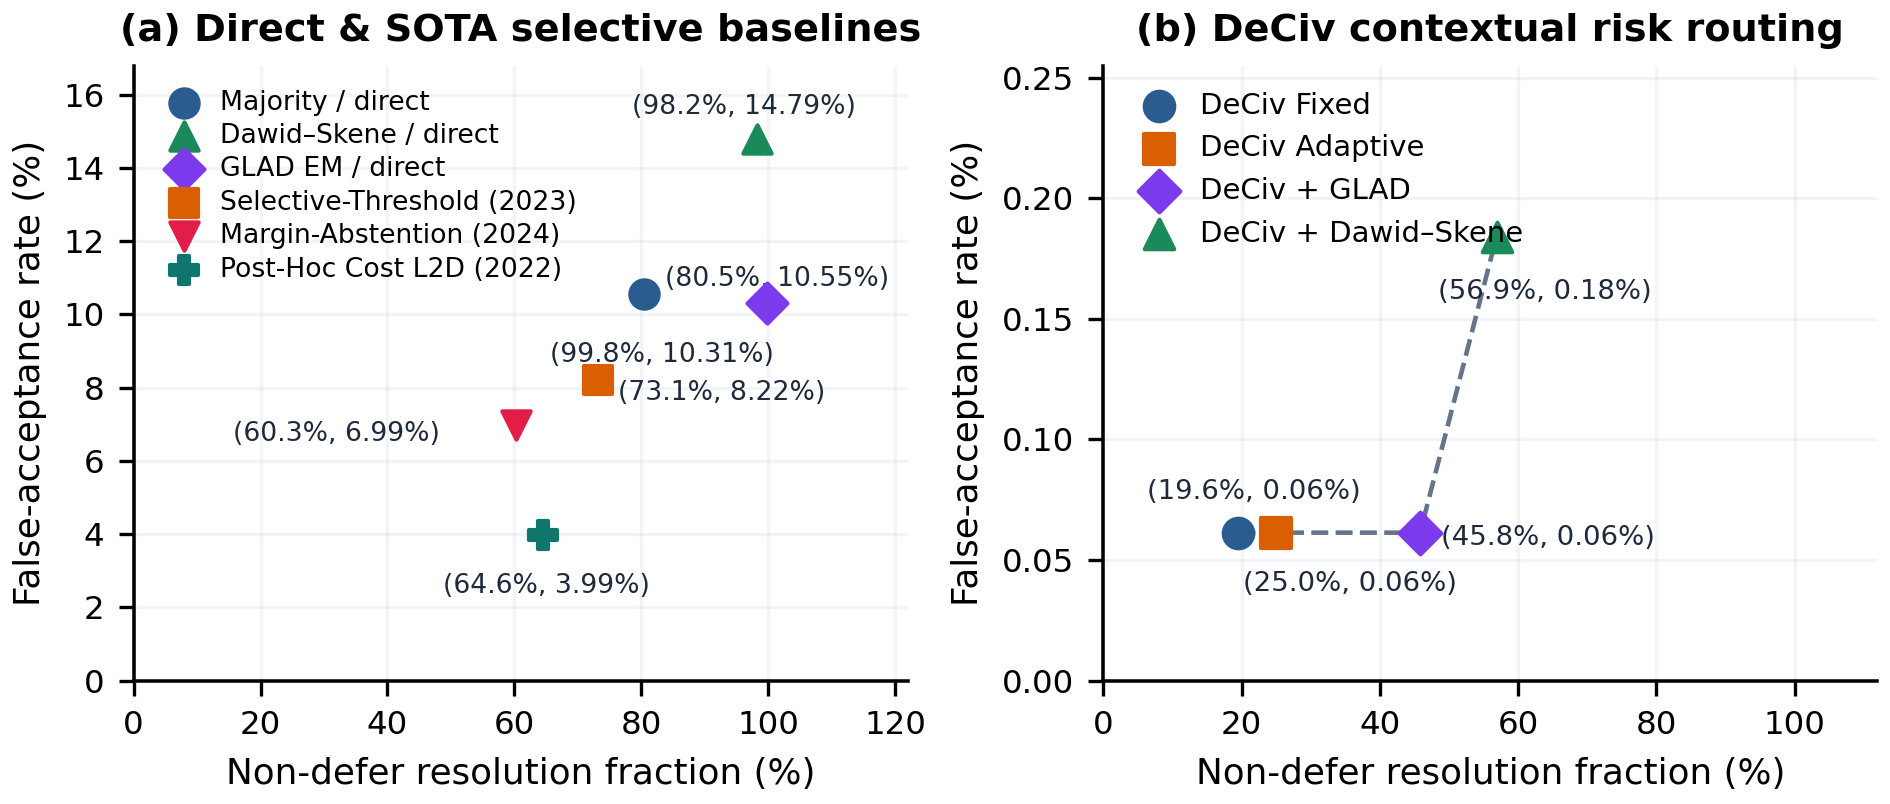
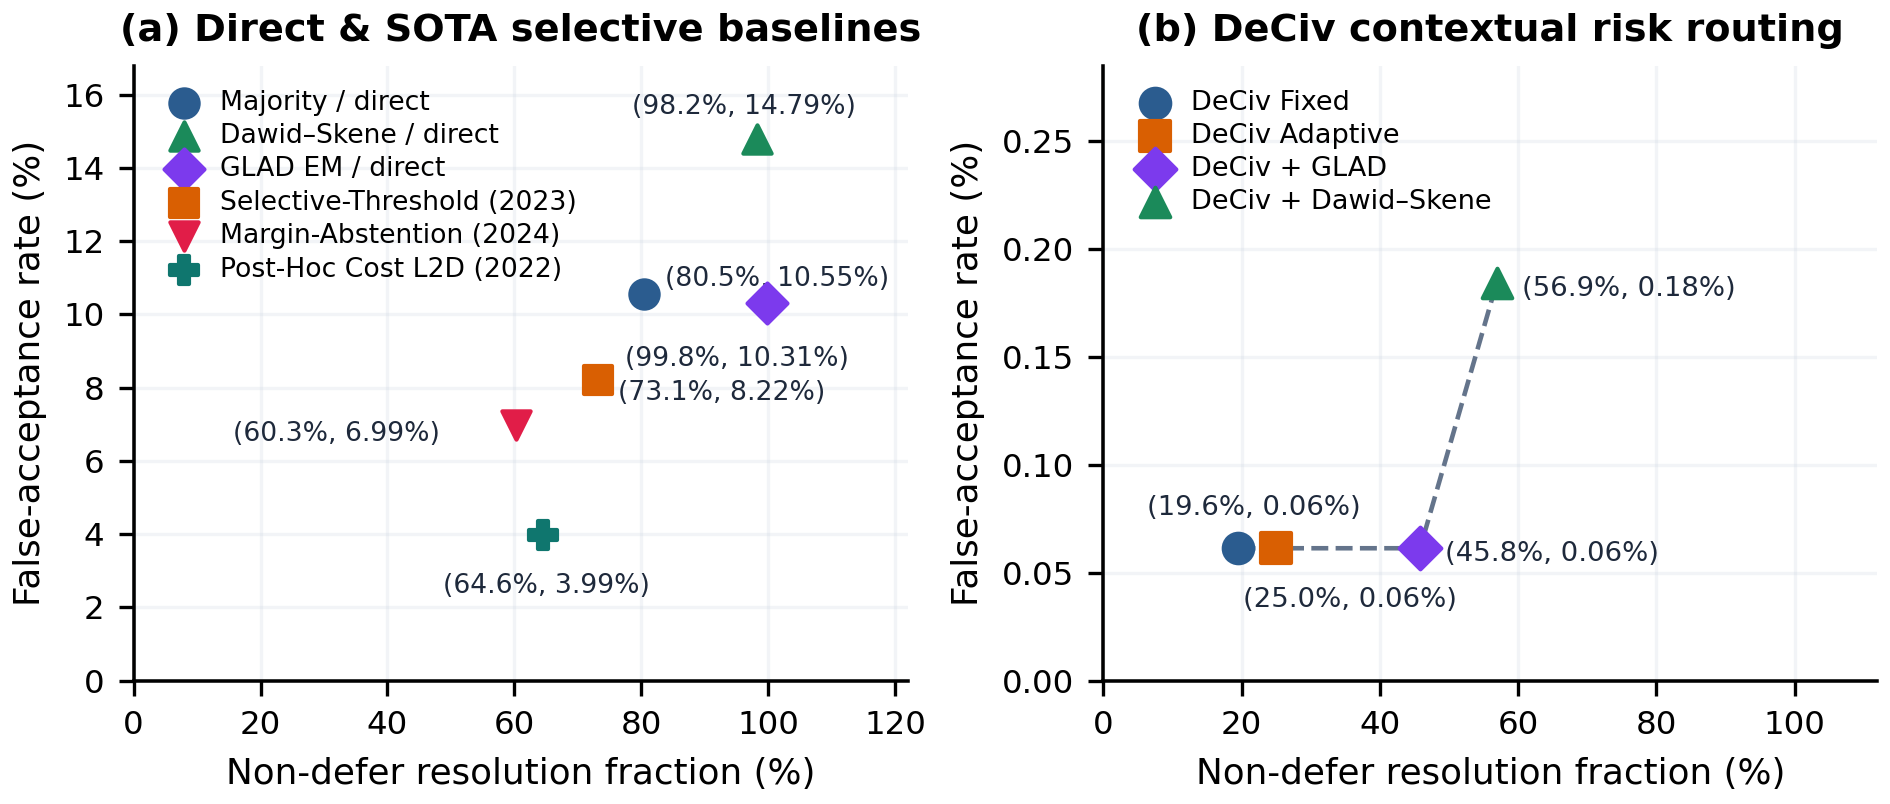
Sync plot_figures.py and zero-overlap label placement for Figure 2

diff --git a/scripts/plot_figures.py b/scripts/plot_figures.py
@@ -20,12 +20,14 @@ def main():
     FIGS.mkdir(parents=True, exist_ok=True)
     plt.rcParams.update({
         "font.family": "DejaVu Sans",
-        "font.size": 9,
-        "axes.labelsize": 9,
-        "axes.titlesize": 9.5,
-        "xtick.labelsize": 8,
-        "ytick.labelsize": 8,
-        "legend.fontsize": 7.5,
+        "font.size": 8.6,
+        "axes.labelsize": 8.6,
+        "axes.titlesize": 9.2,
+        "axes.titleweight": "bold",
+        "xtick.labelsize": 7.8,
+        "ytick.labelsize": 7.8,
+        "legend.fontsize": 7.3,
+        "axes.linewidth": 0.85,
         "pdf.fonttype": 42,
         "ps.fonttype": 42,
         "axes.spines.top": False,
@@ -33,78 +35,87 @@ def main():
     })
     colors = ["#2b5c8f", "#d95f02", "#1b8a5a"]
 
-    # Figure 2: Admission tradeoff
+    # Figure 2: Selectivity-throughput frontier (6.30 x 2.68 in)
     data = rows("main_metrics.csv")
     metrics = {(r["method"], r["router"]): r for r in data}
-    fig, axes = plt.subplots(1, 2, figsize=(7.2, 3.0), layout="constrained")
-    for ax, router in zip(axes, ["direct", "risk"]):
-        labels = (
-            [("majority", "Majority / fixed"), ("reliability_weighted", "Reliability / adaptive"), ("dawid_skene", "Dawid\u2013Skene")]
-            if router == "direct"
-            else [("fixed", "Fixed / majority / reliability"), ("adaptive", "DeCiv Adaptive"), ("dawid_skene", "DeCiv + Dawid\u2013Skene")]
-        )
-        offsets = [(-36, -15), (-82, -3), (-64, 6)] if router == "direct" else [(-36, 8), (6, -13), (-34, -15)]
-        for j, (mode, label) in enumerate(labels):
-            r = metrics[(mode, router)]
-            x = 100 * float(r["non_defer_fraction"])
-            y = 100 * float(r["far"])
-            ax.scatter(x, y, s=56, color=colors[j], marker=["o", "s", "^"][j], label=label, zorder=3)
-            ax.annotate(f"({x:.1f}%, {y:.2f}%)", xy=(x, y), xytext=offsets[j], textcoords="offset points", fontsize=7.2, color="#1f2937")
-        ax.set(
-            xlabel="Non-defer resolution fraction (%)",
-            ylabel="False-acceptance rate (%)",
-            title="(a) Direct semantic mapping" if router == "direct" else "(b) Contextual risk routing",
-            xlim=(0, 108),
-            ylim=(0, 16.8 if router == "direct" else 0.23),
-        )
-        ax.grid(alpha=0.22)
-        ax.legend(loc="lower left" if router == "direct" else "upper left", frameon=False, fontsize=7.2)
+    sota = {r["baseline_id"]: r for r in rows("sota_baselines.csv")}
+    fig, axes = plt.subplots(1, 2, figsize=(6.30, 2.68), layout="constrained")
+    ax_a = axes[0]
+    pts_a = [
+        (100 * float(metrics[("majority", "direct")]["non_defer_fraction"]), 100 * float(metrics[("majority", "direct")]["far"]), "Majority / direct", "#2b5c8f", "o", (5, 2)),
+        (100 * float(metrics[("dawid_skene", "direct")]["non_defer_fraction"]), 100 * float(metrics[("dawid_skene", "direct")]["far"]), "Dawid\u2013Skene / direct", "#1b8a5a", "^", (-30, 6)),
+        (100 * float(sota["glad_direct"]["non_defer_fraction"]), 100 * float(sota["glad_direct"]["far"]), "GLAD EM / direct", "#7c3aed", "D", (-34, -15)),
+        (100 * float(sota["selective_threshold"]["non_defer_fraction"]), 100 * float(sota["selective_threshold"]["far"]), "Selective-Threshold (2023)", "#d95f02", "s", (5, -5)),
+        (100 * float(sota["margin_rejector"]["non_defer_fraction"]), 100 * float(sota["margin_rejector"]["far"]), "Margin-Abstention (2024)", "#e11d48", "v", (-68, -4)),
+        (100 * float(sota["posthoc_l2d"]["non_defer_fraction"]), 100 * float(sota["posthoc_l2d"]["far"]), "Post-Hoc Cost L2D (2022)", "#0f766e", "P", (-24, -14)),
+    ]
+    for x, y, lbl, col, mk, off in pts_a:
+        ax_a.scatter(x, y, s=46, color=col, marker=mk, label=lbl, zorder=3)
+        ax_a.annotate(f"({x:.1f}%, {y:.2f}%)", xy=(x, y), xytext=off, textcoords="offset points", fontsize=6.4, color="#1e293b")
+    ax_a.set(xlabel="Non-defer resolution fraction (%)", ylabel="False-acceptance rate (%)", title="(a) Direct & SOTA selective baselines", xlim=(0, 122), ylim=(0, 16.8))
+    ax_a.grid(alpha=0.24, color="#cbd5e1")
+    ax_a.legend(loc="upper left", frameon=False, fontsize=6.4, handletextpad=0.35, labelspacing=0.28)
+
+    ax_b = axes[1]
+    pts_b = [
+        (100 * float(metrics[("fixed", "risk")]["non_defer_fraction"]), 100 * float(metrics[("fixed", "risk")]["far"]), "DeCiv Fixed", "#2b5c8f", "o", (-22, 8)),
+        (100 * float(metrics[("adaptive", "risk")]["non_defer_fraction"]), 100 * float(metrics[("adaptive", "risk")]["far"]), "DeCiv Adaptive", "#d95f02", "s", (-8, -14)),
+        (100 * float(sota["deciv_glad_risk"]["non_defer_fraction"]), 100 * float(sota["deciv_glad_risk"]["far"]), "DeCiv + GLAD", "#7c3aed", "D", (6, -3)),
+        (100 * float(metrics[("dawid_skene", "risk")]["non_defer_fraction"]), 100 * float(metrics[("dawid_skene", "risk")]["far"]), "DeCiv + Dawid\u2013Skene", "#1b8a5a", "^", (6, -3)),
+    ]
+    ax_b.plot([p[0] for p in pts_b], [p[1] for p in pts_b], color="#64748b", linestyle="--", linewidth=1.1, zorder=2)
+    for x, y, lbl, col, mk, off in pts_b:
+        ax_b.scatter(x, y, s=50, color=col, marker=mk, label=lbl, zorder=3)
+        ax_b.annotate(f"({x:.1f}%, {y:.2f}%)", xy=(x, y), xytext=off, textcoords="offset points", fontsize=6.6, color="#1e293b")
+    ax_b.set(xlabel="Non-defer resolution fraction (%)", ylabel="False-acceptance rate (%)", title="(b) DeCiv contextual risk routing", xlim=(0, 112), ylim=(0, 0.285))
+    ax_b.grid(alpha=0.24, color="#cbd5e1")
+    ax_b.legend(loc="upper left", frameon=False, fontsize=6.5, handletextpad=0.35, labelspacing=0.26)
     fig.savefig(FIGS / "admission_tradeoff.pdf")
-    fig.savefig(FIGS / "admission_tradeoff.png", dpi=240)
+    fig.savefig(FIGS / "admission_tradeoff.png", dpi=300)
     plt.close(fig)
 
-    # Figure 3: Routing confusions
+    # Figure 3: Compact 2x2 four-action confusion matrices (6.30 x 3.32 in)
     data = rows("action_confusion.csv")
     actions = ["accept", "reject", "revise", "defer"]
-    ylabels = ["accept\n(n=170)", "reject\n(n=790)", "revise\n(n=450)", "defer\n(n=390)"]
-    fig, axes = plt.subplots(2, 2, figsize=(7.2, 5.4), layout="constrained")
-    configs = [
+    ylabels = ["accept (170)", "reject (790)", "revise (450)", "defer (390)"]
+    fig, axes = plt.subplots(2, 2, figsize=(6.30, 3.32), layout="constrained")
+    cfgs = [
         ("majority", "direct", "(a) Majority / direct"),
         ("fixed", "risk", "(b) DeCiv Fixed / risk"),
         ("adaptive", "risk", "(c) DeCiv Adaptive / risk"),
         ("dawid_skene", "risk", "(d) DeCiv + Dawid\u2013Skene / risk"),
     ]
-    for ax, (mode, router, title) in zip(axes.flat, configs):
+    for idx_ax, (ax, (mode, router, title)) in enumerate(zip(axes.flat, cfgs)):
         matrix = np.zeros((4, 4), dtype=int)
         for r in data:
             if r["method"] == mode and r["router"] == router:
                 matrix[actions.index(r["reference_action"]), actions.index(r["predicted_action"])] = int(r["count"])
         percentages = 100 * matrix / matrix.sum(axis=1, keepdims=True)
         ax.imshow(percentages, vmin=0, vmax=100, cmap="Blues", aspect="auto")
+        ax.set_xticks(np.arange(-0.5, 4, 1), minor=True)
+        ax.set_yticks(np.arange(-0.5, 4, 1), minor=True)
+        ax.grid(which="minor", color="white", linestyle="-", linewidth=1.3)
+        ax.tick_params(which="minor", bottom=False, left=False)
         for i in range(4):
             for j in range(4):
-                ax.text(
-                    j,
-                    i,
-                    f"{matrix[i,j]}\n({percentages[i,j]:.1f}%)",
-                    ha="center",
-                    va="center",
-                    fontsize=7.2,
-                    color="white" if percentages[i, j] > 55 else "#111827",
-                )
-        ax.set_xticks(range(4), actions)
-        ax.set_yticks(range(4), ylabels)
-        ax.set(xlabel="Recommended disposition", ylabel="Policy reference", title=title)
+                ax.text(j, i, f"{matrix[i,j]}\n({percentages[i,j]:.1f}%)", ha="center", va="center", fontsize=6.9, color="white" if percentages[i, j] > 55 else "#0f172a")
+        ax.set_xticks(range(4), actions if idx_ax >= 2 else [""] * 4)
+        ax.set_yticks(range(4), ylabels if idx_ax % 2 == 0 else [""] * 4)
+        ax.set_title(title, pad=4)
+        if idx_ax >= 2:
+            ax.set_xlabel("Recommended disposition")
+        if idx_ax % 2 == 0:
+            ax.set_ylabel("Policy reference")
         ax.tick_params(length=0)
     fig.savefig(FIGS / "routing_confusions.pdf")
-    fig.savefig(FIGS / "routing_confusions.png", dpi=240)
+    fig.savefig(FIGS / "routing_confusions.png", dpi=300)
     plt.close(fig)
 
-    # Figure 4: Cost sensitivity
+    # Figure 4: Deferral cost sensitivity (6.30 x 2.65 in)
     data = rows("cost_sensitivity.csv")
-    fig, axes = plt.subplots(1, 2, figsize=(7.2, 3.0), layout="constrained")
+    fig, axes = plt.subplots(1, 2, figsize=(6.30, 2.65), layout="constrained")
     for ax in axes:
-        ax.axvline(0.5, color="#6b7280", linestyle=":", linewidth=1.1, zorder=1)
+        ax.axvline(0.5, color="#64748b", linestyle=":", linewidth=1.1, zorder=1)
     for j, mode in enumerate(["fixed", "adaptive", "dawid_skene"]):
         rs = sorted([r for r in data if r["method"] == mode], key=lambda r: float(r["defer_cost"]))
         for ax, k in zip(axes, ["non_defer_fraction", "far"]):
@@ -116,33 +127,33 @@ def main():
                 marker=["o", "s", "^"][j],
                 linestyle=["-", "--", "-."][j],
                 linewidth=1.7,
-                markersize=4.8,
+                markersize=4.6,
                 zorder=3,
             )
             ax.set(
                 xlabel="Deferral cost parameter d",
                 ylabel="Non-defer fraction (%)" if k == "non_defer_fraction" else "False-acceptance rate (%)",
-                title="(a) Resolution throughput vs. deferral cost" if k == "non_defer_fraction" else "(b) False-acceptance rate vs. deferral cost",
-                ylim=(0, 80 if k == "non_defer_fraction" else 0.9),
+                title="(a) Resolution throughput vs. cost d" if k == "non_defer_fraction" else "(b) False-acceptance rate vs. cost d",
+                ylim=(0, 87 if k == "non_defer_fraction" else 0.9),
             )
             ax.set_xticks([0.1, 0.5, 1, 2])
-            ax.grid(alpha=0.22)
-    axes[0].text(0.54, 6, "d = 0.5 (default)", fontsize=7.2, color="#4b5563")
-    axes[1].text(0.54, 0.46, "d = 0.5 (default)", fontsize=7.2, color="#4b5563")
-    axes[0].legend(loc="upper left", frameon=False, fontsize=7.3)
-    axes[1].legend(loc="upper left", frameon=False, fontsize=7.3)
+            ax.grid(alpha=0.24, color="#cbd5e1")
+    axes[0].text(0.55, 6, "d = 0.5 (default)", fontsize=7.0, color="#475569")
+    axes[1].text(0.55, 0.46, "d = 0.5 (default)", fontsize=7.0, color="#475569")
+    axes[0].legend(loc="upper left", frameon=False, fontsize=7.1)
+    axes[1].legend(loc="upper left", frameon=False, fontsize=7.1)
     fig.savefig(FIGS / "routing_cost_sensitivity.pdf")
-    fig.savefig(FIGS / "routing_cost_sensitivity.png", dpi=240)
+    fig.savefig(FIGS / "routing_cost_sensitivity.png", dpi=300)
     plt.close(fig)
 
-    # Figure 5: 5-Fold Stratified CV & Component Ablation
+    # Figure 5: 5-Fold Stratified CV & Component Ablation (6.30 x 2.75 in)
     cv5 = {(r["method"], r["router"]): r for r in rows("five_fold_cv.csv")}
     ab = {r["variant_id"]: r for r in rows("ablation_metrics.csv")}
-    fig, axes = plt.subplots(1, 2, figsize=(7.2, 3.2), layout="constrained")
+    fig, axes = plt.subplots(1, 2, figsize=(6.30, 2.75), layout="constrained")
     ax0 = axes[0]
     m_specs = [
         (("majority", "direct"), "Majority Direct", "#94a3b8"),
-        (("fixed", "risk"), "DeCiv Fixed", "#3b82f6"),
+        (("fixed", "risk"), "DeCiv Fixed", "#2b5c8f"),
         (("adaptive", "risk"), "DeCiv Adaptive", "#d95f02"),
         (("dawid_skene", "risk"), "DeCiv + Dawid\u2013Skene", "#1b8a5a"),
     ]
@@ -163,25 +174,13 @@ def main():
             100 * float(r5["accuracy_std"]),
             100 * float(r5["recall_revise_std"]),
         ]
-        ax0.bar(
-            x_pos + (idx_m - 1.5) * bar_w,
-            means,
-            width=bar_w,
-            yerr=stds,
-            capsize=2.2,
-            color=m_col,
-            edgecolor="white",
-            linewidth=0.5,
-            label=m_lbl,
-            error_kw={"elinewidth": 0.8, "ecolor": "#334155"},
-            zorder=3,
-        )
+        ax0.bar(x_pos + (idx_m - 1.5) * bar_w, means, width=bar_w, yerr=stds, capsize=2.0, color=m_col, edgecolor="white", linewidth=0.5, label=m_lbl, error_kw={"elinewidth": 0.8, "ecolor": "#334155"}, zorder=3)
     ax0.set_xticks(x_pos, cat_labels)
     ax0.set_ylim(0, 128)
     ax0.set_ylabel("Score across 5 folds (%)")
     ax0.set_title("(a) 5-Fold stratified CV (mean \u00b1 SD)")
-    ax0.grid(axis="y", alpha=0.22)
-    ax0.legend(loc="upper center", ncol=2, frameon=False, fontsize=6.6)
+    ax0.grid(axis="y", alpha=0.24, color="#cbd5e1")
+    ax0.legend(loc="upper center", ncol=2, frameon=False, fontsize=6.4, columnspacing=0.8, handletextpad=0.35)
 
     ax1 = axes[1]
     ab_keys = [
@@ -199,17 +198,17 @@ def main():
     ax1.barh(y_pos + bh / 2, prec_vals, height=bh, color="#1b8a5a", label="Accept Prec. (%)", zorder=3)
     ax1.barh(y_pos - bh / 2, rev_vals, height=bh, color="#d95f02", label="Revise Recall (%)", zorder=3)
     for y_i, p_val, r_val, f_val in zip(y_pos, prec_vals, rev_vals, far_vals):
-        ax1.text(max(p_val, r_val) + 1.8, y_i, f"FAR {f_val:.2f}%", va="center", ha="left", fontsize=6.7, color="#1f2937")
+        ax1.text(max(p_val, r_val) + 1.8, y_i, f"FAR {f_val:.2f}%", va="center", ha="left", fontsize=6.5, color="#1e293b")
     ax1.set_yticks(y_pos, [lbl for _, lbl in ab_keys])
-    ax1.set_xlim(0, 134)
+    ax1.set_xlim(0, 138)
     ax1.set_ylim(-0.6, 5.45)
     ax1.set_xlabel("Metric score (%) [annotated with FAR]")
     ax1.set_title("(b) Component ablation impact")
-    ax1.grid(axis="x", alpha=0.22)
-    ax1.legend(loc="upper right", ncol=2, frameon=False, fontsize=6.5)
+    ax1.grid(axis="x", alpha=0.24, color="#cbd5e1")
+    ax1.legend(loc="upper right", ncol=2, frameon=False, fontsize=6.4, columnspacing=0.7, handletextpad=0.35)
 
     fig.savefig(FIGS / "ablation_and_cv.pdf")
-    fig.savefig(FIGS / "ablation_and_cv.png", dpi=240)
+    fig.savefig(FIGS / "ablation_and_cv.png", dpi=300)
     plt.close(fig)
     print("Generated publication figures in figures/ directory.")
 
